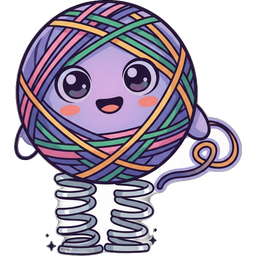
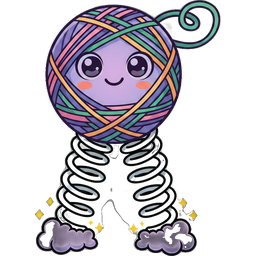
Add files via upload

diff --git a/wefty-run.html b/wefty-run.html
@@ -237,6 +237,14 @@
         z-index: 10;
     }
     .game-over.hidden { display: none; }
+    .go-signin {
+        color: #FBBF24;
+        font-size: 12px;
+        font-weight: 500;
+        margin: 10px 0 6px 0;
+        text-align: center;
+    }
+    .go-signin.hidden { display: none; }
 
     /* Portrait-mode gate — mobile browsers don't let us force
        landscape, so pause gameplay and ask the player to rotate. */
@@ -369,6 +377,7 @@
         <h2>Run over</h2>
         <div class="score" id="go-score">Distance 0 m</div>
         <div class="scoreboard" id="go-scoreboard"></div>
+        <div id="go-signin-nudge" class="go-signin hidden">Sign in on the hub to appear on Top Runs →</div>
         <button id="btn-restart">Restart</button>
         <a class="back-link" href="wefty-hub.html"><button>Back to Hub</button></a>
     </div>
@@ -738,11 +747,10 @@
         if (len > 0.40) {
             const candidates = [];
             if (world.distance > 1)  candidates.push(['letter', 0.65]);
-            if (world.distance > 5)  candidates.push(['spring', 0.18]);
-            if (world.distance > 12) candidates.push(['djump',  0.10]);
-            if (world.distance > 20) candidates.push(['slowmo', 0.09]);
-            if (world.distance > 30) candidates.push(['glider', 0.10]);
-            if (world.distance > 40) candidates.push(['shield', 0.09]);
+            if (world.distance > 12) candidates.push(['djump',  0.20]);
+            if (world.distance > 20) candidates.push(['slowmo', 0.12]);
+            if (world.distance > 30) candidates.push(['glider', 0.12]);
+            if (world.distance > 40) candidates.push(['shield', 0.11]);
             const total = candidates.reduce((s, c) => s + c[1], 0);
             if (candidates.length && Math.random() < total) {
                 let roll = Math.random() * total;
@@ -809,11 +817,6 @@
             const letter = pool[Math.floor(Math.random() * pool.length)];
             const p = airborne(0.12, 0.14); if (!p) return;
             world.letters.push({ worldX: p.px, y: p.py, letter, collected: false });
-        } else if (kind === 'spring') {
-            const sx = x + len * (0.25 + Math.random() * 0.50);
-            const sy = surfaceYAt(x, len, top, crown, sx);
-            if (world.hazards.some(hz => Math.abs(hz.worldX - sx) < 0.10)) return;
-            world.springs.push({ worldX: sx, y: sy, consumed: false });
         } else if (kind === 'djump') {
             const p = airborne(0.18, 0.10); if (!p) return;
             world.doubleJumps.push({ worldX: p.px, y: p.py, collected: false });
@@ -1780,8 +1783,26 @@
 
         // Airborne pickups with a gentle bob
         const pickupSize = h * 0.13;
+        const djPickupSize = pickupSize * 0.5;
         for (const g of world.gliders)      if (!g.collected)  drawPickup(gliderImg, g.worldX, g.y, pickupSize, 4);
-        for (const dj of world.doubleJumps) if (!dj.collected) drawPickup(djImg, dj.worldX, dj.y, pickupSize, 4);
+        // Spring pickup: half-size + bounce + sway so it reads as a
+        // spring rather than a static icon drifting past.
+        for (const dj of world.doubleJumps) {
+            if (dj.collected) continue;
+            if (dj.worldX < world.cameraX - 0.1 || dj.worldX > world.cameraX + 1.1) continue;
+            const sx = (dj.worldX - world.cameraX) * w;
+            const phase = (world.frameTick || 0) * 0.18 + dj.worldX * 7;
+            const bobY = Math.sin(phase) * (djPickupSize * 0.18);
+            const swayDeg = Math.sin(phase * 0.85) * 14;
+            const sy = dj.y * h + bobY;
+            if (djImg.complete && djImg.naturalWidth) {
+                fgCtx.save();
+                fgCtx.translate(sx, sy);
+                fgCtx.rotate(swayDeg * Math.PI / 180);
+                fgCtx.drawImage(djImg, -djPickupSize / 2, -djPickupSize / 2, djPickupSize, djPickupSize);
+                fgCtx.restore();
+            }
+        }
         for (const sm of world.slowMos)     if (!sm.collected) drawPickup(slowMoImg, sm.worldX, sm.y, pickupSize, 4);
         for (const sh of world.shields)     if (!sh.collected) drawPickup(shieldImg, sh.worldX, sh.y, pickupSize, 4);
 
@@ -1937,52 +1958,42 @@
         const sSize = shrunk ? baseSize * 0.55 : baseSize;
         const cx = WEFTY_SCREEN_X * w;
         const feetY = world.weftyY * h;
-        // Base Wefty always at rolling size. Power-ups are rendered as
-        // separate overlay sprites anchored to her, so the mascot body
-        // never shrinks when an effect kicks in.
+        // Ability-state Wefty sprites — each variant has the accessory
+        // (kite / springs / bubble) baked onto Wefty herself so she
+        // stays recognizable and cute. Per-sprite scale + bottom-ratio
+        // compensates for the different compositions.
         const gliderActive = world.gliderUntil > performance.now() && !world.grounded;
         const hasShield = world.shieldCharges > 0;
         const hasDoubleJump = world.doubleJumpUntil > performance.now();
-        const base = !world.grounded ? weftyFall : weftyRunA;
-        const circ = sSize * Math.PI;
-        const rollDeg = world.grounded ? (world.cameraX * w / circ) * 360 : 0;
+        let spriteImg, spriteScale = 1, spriteBottom = 0.86;
+        if (gliderActive && weftyGlider.complete && weftyGlider.naturalWidth) {
+            spriteImg = weftyGlider; spriteScale = 1.55; spriteBottom = 0.70;
+        } else if (hasShield && weftyShield.complete && weftyShield.naturalWidth) {
+            spriteImg = weftyShield; spriteScale = 1.10; spriteBottom = 0.82;
+        } else if (hasDoubleJump && weftySpring.complete && weftySpring.naturalWidth) {
+            spriteImg = weftySpring; spriteScale = 0.65; spriteBottom = 0.92;
+        } else {
+            spriteImg = !world.grounded ? weftyFall : weftyRunA;
+        }
+        const effSize = sSize * spriteScale;
+        const rolling = spriteImg === weftyRunA;
+        const circ = effSize * Math.PI;
+        const rollDeg = rolling ? (world.cameraX * w / circ) * 360 : 0;
         const iframes = world.invincibleUntil > performance.now();
         const blink = iframes ? (Math.floor(performance.now() / 50) % 2 === 0 ? 0.4 : 1) : 1;
-        const ballTopY = feetY - sSize * 0.86;
-        // Springs BELOW the base so Wefty stands on top of the coils.
-        if (hasDoubleJump && springImg.complete && springImg.naturalWidth) {
-            const springSize = sSize * 0.8;
+        if (spriteImg && spriteImg.complete && spriteImg.naturalWidth > 0) {
             fgCtx.save();
             fgCtx.globalAlpha = blink;
-            fgCtx.drawImage(springImg, cx - springSize / 2, feetY - springSize * 0.1, springSize, springSize);
-            fgCtx.restore();
-        }
-        if (base.complete && base.naturalWidth > 0) {
-            fgCtx.save();
-            fgCtx.globalAlpha = blink;
-            fgCtx.translate(cx, feetY - sSize * 0.36);
+            // Anchor the image so its bottom-ratio * effSize above feetY
+            // lines up with the ground. Rotate at the ball's center.
+            const imgCenterY = feetY - effSize * (spriteBottom - 0.5);
+            fgCtx.translate(cx, imgCenterY);
             fgCtx.rotate(rollDeg * Math.PI / 180);
-            fgCtx.drawImage(base, -sSize / 2, -sSize / 2, sSize, sSize);
+            fgCtx.drawImage(spriteImg, -effSize / 2, -effSize / 2, effSize, effSize);
             fgCtx.restore();
         } else {
             fgCtx.fillStyle = palette.main;
             fgCtx.beginPath(); fgCtx.arc(cx, feetY - h * 0.07, h * 0.055, 0, Math.PI * 2); fgCtx.fill();
-        }
-        // Kite ABOVE the base for glider mode.
-        if (gliderActive && gliderImg.complete && gliderImg.naturalWidth) {
-            const kiteSize = sSize * 1.2;
-            fgCtx.save();
-            fgCtx.globalAlpha = blink;
-            fgCtx.drawImage(gliderImg, cx - kiteSize / 2, ballTopY - kiteSize * 0.85, kiteSize, kiteSize);
-            fgCtx.restore();
-        }
-        // Shield ring — wraps Wefty in the knit bubble.
-        if (hasShield && shieldImg.complete && shieldImg.naturalWidth) {
-            const shieldSize = sSize * 1.35;
-            fgCtx.save();
-            fgCtx.globalAlpha = 0.85 * blink;
-            fgCtx.drawImage(shieldImg, cx - shieldSize / 2, ballTopY - (shieldSize - sSize) / 2, shieldSize, shieldSize);
-            fgCtx.restore();
         }
 
         // Lasso flash — yarn rope from Wefty toward target, plus a
@@ -2037,6 +2048,11 @@
         if (world.gameOver) {
             overlay.classList.remove('hidden');
             goScore.textContent = `Distance ${cur} m${cur >= bestDistance ? ' (new best!)' : ''}`;
+            const nudge = document.getElementById('go-signin-nudge');
+            if (nudge) {
+                const anon = (typeof Auth === 'undefined') || !Auth.uid || Auth.isAnonymous;
+                nudge.classList.toggle('hidden', !anon);
+            }
         }
 
         // Inventory badges — light up when there's stock, highlight when

diff --git a/sw.js b/sw.js
@@ -1,5 +1,5 @@
 // WordWeft Service Worker — caches static assets for offline shell
-const CACHE_NAME = 'wordweft-v51';
+const CACHE_NAME = 'wordweft-v52';
 const STATIC_ASSETS = [
     '/',
     '/index.html',
